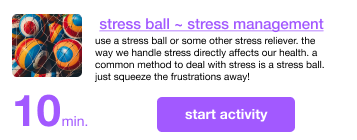
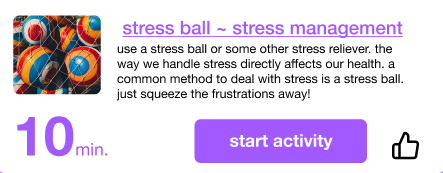
Resources Update Illiac

diff --git a/App.vue b/App.vue
@@ -163,6 +163,11 @@
             >
               <img src="@/assets/Cooking.png" id="Cooking"
             /></a>
+
+            <h5>
+              <a href="#" class="More">see more </a>
+              <a href="#" class="More"><img src="@/assets/arrow.png" /></a>
+            </h5>
           </Tab>
 
           <Tab name="healthcare" id="healthcare">
@@ -189,6 +194,11 @@
             <a href="https://www.teladoc.com/therapy/" target="_blank">
               <img src="@/assets/healthcare.png" id="HealthCare2"
             /></a>
+
+            <h5>
+              <a href="#" class="More">see more </a>
+              <a href="#" class="More"><img src="@/assets/arrow.png" /></a>
+            </h5>
           </Tab>
 
           <Tab name="research" id="research">
@@ -233,6 +243,11 @@
             >
               <img src="@/assets/research.png" id="Research2"
             /></a>
+
+            <h5>
+              <a href="#" class="More">see more </a>
+              <a href="#" class="More"><img src="@/assets/arrow.png" /></a>
+            </h5>
           </Tab>
 
           <Tab name="crowdfunding" id="crowdfunding">
@@ -277,6 +292,11 @@
             >
               <img src="@/assets/crowdfunding.png" id="Crowdfunding2"
             /></a>
+
+            <h5>
+              <a href="#" class="More">see more </a>
+              <a href="#" class="More"><img src="@/assets/arrow.png" /></a>
+            </h5>
           </Tab>
 
           <Tab name="hotlines" id="hotlines">
@@ -321,6 +341,11 @@
             >
               <img src="@/assets/hotlines.png" id="Hotlines2"
             /></a>
+
+            <h5>
+              <a href="#" class="More">see more </a>
+              <a href="#" class="More"><img src="@/assets/arrow.png" /></a>
+            </h5>
           </Tab>
 
           <Tab name="facts" id="facts">
@@ -365,9 +390,22 @@
             >
               <img src="@/assets/facts.png" id="Facts2"
             /></a>
+
+            <h5>
+              <a href="#" class="More">see more </a>
+              <a href="#" class="More"><img src="@/assets/arrow.png" /></a>
+            </h5>
           </Tab>
         </Tabs>
       </div>
+    </div>
+
+    <div class="testimonials">
+      <img src="@/assets/Review-Seth.png" id="Seth" />
+      <img src="@/assets/Review-Mary.png" id="Mary" />
+      <img src="@/assets/Review-Jennifer.png" id="Jennifer" />
+      <img src="@/assets/Review-Chat.png" id="Chat" />
+      <img src="@/assets/Review-Chat2.png" id="Chat2" />
     </div>
 
     <!-- <div class="col-sm-1 text-left">
@@ -412,12 +450,24 @@ h4 {
   margin-left: 5rem;
 }
 
+h5 {
+  @include heading-2-right($white);
+  margin-top: 30px;
+}
+
 p {
-  @include medium-text($light-blue);
+  @include heading-2-right($white);
 }
 
 a {
   color: $black;
+
+  &.More {
+    color: $white;
+    &:hover {
+      text-decoration: none;
+    }
+  }
 
   &.number {
     color: $purple;
@@ -438,6 +488,39 @@ li {
   &.active {
     border-bottom: 3px solid $light-purple;
   }
+}
+
+#Seth,
+#Mary,
+#Jennifer {
+  margin-top: 30rem;
+  margin-bottom: 100px;
+  border: 1px solid grey;
+  border-radius: 5px;
+}
+
+#Seth {
+  margin-left: 12rem;
+}
+
+#Mary {
+  margin-left: 15rem;
+}
+
+#Jennifer {
+  margin-left: 15rem;
+}
+
+#Chat {
+  margin-left: 30rem;
+  margin-bottom: 100px;
+  width: 17%;
+}
+
+#Chat2 {
+  margin-left: 35rem;
+  margin-bottom: 100px;
+  width: 17%;
 }
 
 #top,
@@ -609,8 +692,10 @@ li {
   padding: 20px;
   margin-left: 60px;
   margin-right: 60px;
-  margin-bottom: 28px;
-  border-radius: 5px;
+  border-top-left-radius: 0;
+  border-top-right-radius: 5px;
+  border-bottom-left-radius: 5px;
+  border-bottom-right-radius: 5px;
   box-shadow: 10px 10px 5px rgb(175, 174, 174), 0px 0px 10px 3px $light-purple;
 }
 
@@ -649,7 +734,10 @@ ul {
       //Need to make bottom touch line
       color: $white;
       background-color: $purple;
-      border-radius: 6px;
+      border-top-left-radius: 6px;
+      border-top-right-radius: 6px;
+      border-bottom-left-radius: 0;
+      border-bottom-right-radius: 0;
       //   padding-left: 15px;
       //   padding-right: 15px;
     }

diff --git a/typography.scss b/typography.scss
@@ -19,6 +19,15 @@ $font-Cursive: "Comic Sans MS", "Comic Sans", cursive;
     color: $color;
 }
 
+@mixin heading-2-right($color: $white) {
+    margin:0;
+    padding:0;
+    text-align: right;
+    font-size: 20px;
+    line-height: 26px;
+    color: $color;
+}
+
 @mixin heading-3($color: $white) {
     font-size: 30px;
     line-height: 43px;

diff --git a/colors.scss b/colors.scss
@@ -13,7 +13,7 @@ $light-blue: #5ab9f8;
 
 // Button Colors
 $light-purple: #be94f5;
-$purple: #A259FF;
+$purple: #C089F8;
 $violet: #b01eff;
 $pink: #e1467c;
 $middle-blue: #546bfb;
